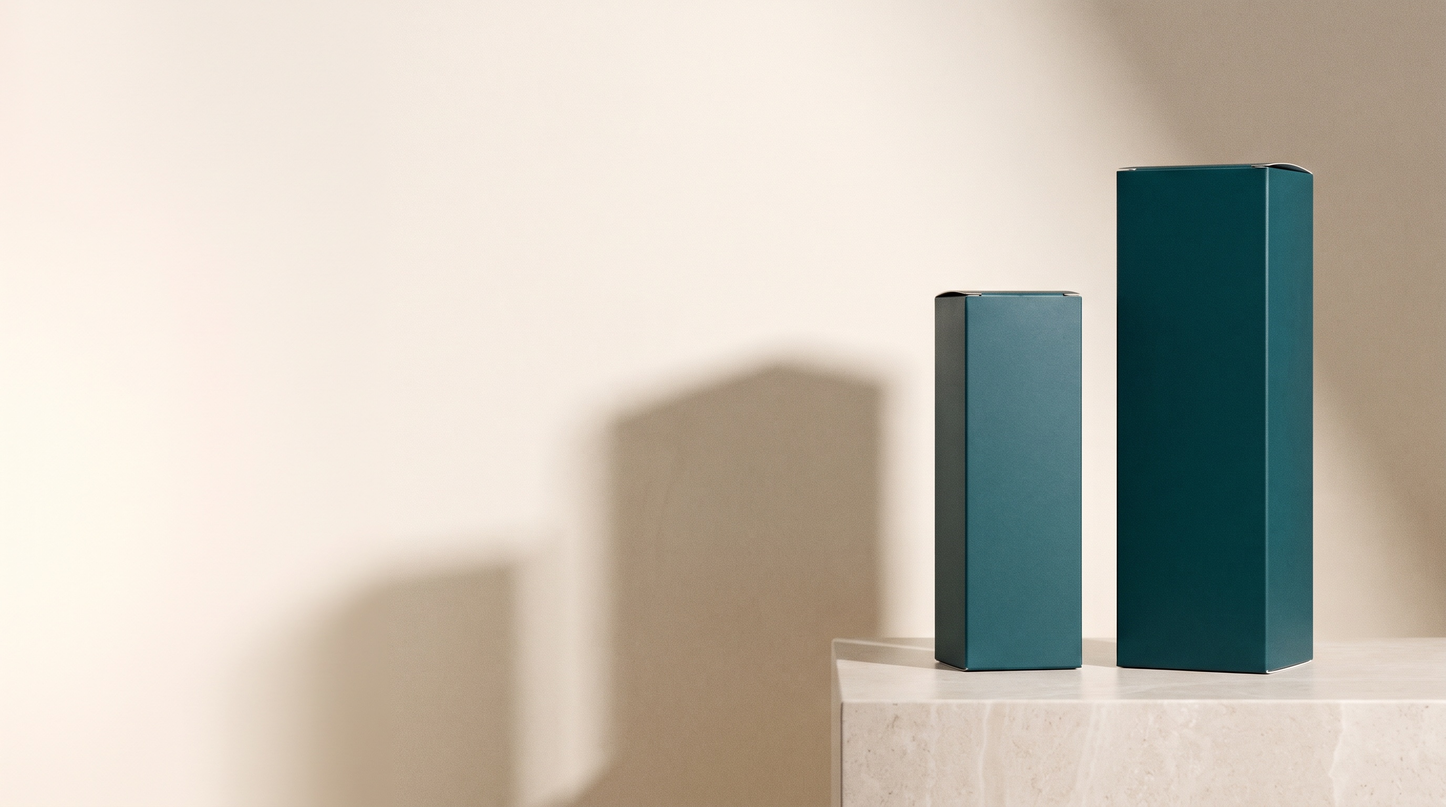
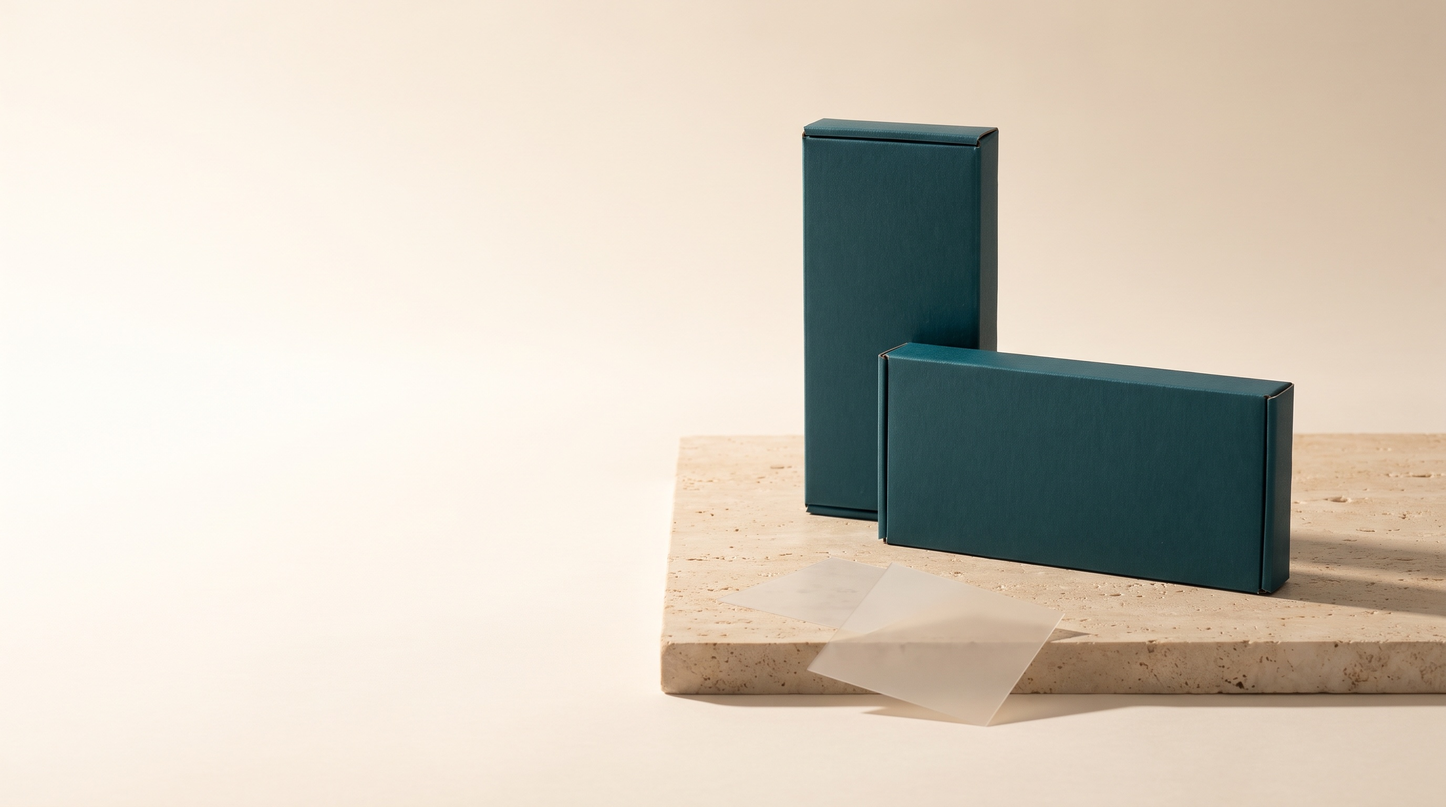
Night hero, and reverse the page out over it

diff --git a/components/sections/Hero.tsx b/components/sections/Hero.tsx
@@ -3,7 +3,7 @@ import { ArtSlot } from "@/components/ArtSlot";
 import { PRODUCT } from "@/lib/brand";
 
 /**
- * 01 — Hero, on the reference site's model: a high-key photograph with the
+ * 01 — Hero, on the reference site’s model: a high-key shot with the
  * product right of centre, and the copy set in dark type over the bright,
  * empty left third. One filled pill plus one underlined text link.
  *
@@ -15,7 +15,7 @@ export function Hero() {
     // Pulled up under the sticky header (5rem tall) so the capsules float
     // on the photograph. The announcement bar above stays in flow.
     <section
-      className="relative isolate -mt-20 overflow-hidden rounded-b-[2rem] text-brand-deep"
+      className="relative isolate -mt-20 overflow-hidden rounded-b-[2rem] text-bone"
       aria-labelledby="hero-heading"
     >
       {/* The photograph. ArtSlot positions itself, so it is wrapped rather
@@ -25,14 +25,17 @@ export function Hero() {
           variant="still"
           brief="the strips on a bedside table, low evening light"
           showCaption={false}
+          sizes="100vw"
           className="h-full w-full"
         />
       </div>
 
-      {/* Scrim — light, not dark, so dark type reads over a high-key image */}
+      {/* Scrim — dark, so pale type reads over the lamplit bedroom. The
+          left of the photograph is soft bed linen catching lamp spill, which
+          is bright enough to swallow cream type without this. */}
       <div
         aria-hidden="true"
-        className="absolute inset-0 -z-10 bg-gradient-to-r from-bone via-bone/70 to-transparent lg:via-bone/45"
+        className="absolute inset-0 -z-10 bg-gradient-to-r from-ink/90 via-ink/65 to-transparent lg:via-ink/40"
       />
 
       <div className="mx-auto flex min-h-svh max-w-[1600px] flex-col justify-center px-6 pb-28 pt-[calc(5rem+4rem)] lg:px-10">
@@ -46,14 +49,14 @@ export function Hero() {
             around how you absorb.
           </h1>
 
-          <p className="prose-quiet mt-7 max-w-md text-ink-soft">
+          <p className="prose-quiet mt-7 max-w-md text-bone/75">
             {PRODUCT.subtitle} One strip, thirty minutes before bed.
           </p>
 
           <div className="mt-11 flex flex-wrap items-center gap-x-9 gap-y-4">
             <Link
               href="/shop"
-              className="inline-flex items-center rounded-full bg-brand-deep px-9 py-4 text-[0.9375rem] text-bone transition-colors duration-500 [transition-timing-function:var(--ease-quiet)] hover:bg-ink"
+              className="inline-flex items-center rounded-full bg-bone px-9 py-4 text-[0.9375rem] text-brand-deep transition-colors duration-500 [transition-timing-function:var(--ease-quiet)] hover:bg-white"
             >
               Shop the strip
             </Link>

diff --git a/components/Header.tsx b/components/Header.tsx
@@ -43,8 +43,10 @@ export function Header() {
   const group = [
     "flex items-center gap-3 transition-all duration-700 sm:gap-5",
     "[transition-timing-function:var(--ease-quiet)]",
+    // Smoked rather than frosted: the hero photograph is a dark bedroom, so
+    // a pale capsule would punch a hole in it.
     floating
-      ? "sm:rounded-full sm:bg-bone/55 sm:px-5 sm:py-2 sm:backdrop-blur-xl"
+      ? "sm:rounded-full sm:bg-ink/25 sm:px-5 sm:py-2 sm:backdrop-blur-xl"
       : "",
   ].join(" ");
 
@@ -57,10 +59,10 @@ export function Header() {
         className={[
           "transition-[background-color,border-color,color] duration-700",
           "[transition-timing-function:var(--ease-quiet)]",
-          // The hero photograph is high-key, so the header sits transparent
-          // over it in dark type rather than reversing out of a colour band.
+          // Over the hero the header reverses out in cream; once scrolled it
+          // lands on bone and goes back to ink.
           floating
-            ? "border-b border-transparent bg-transparent text-brand-deep"
+            ? "border-b border-transparent bg-transparent text-bone"
             : "border-b border-hairline bg-bone/85 text-ink backdrop-blur-md",
         ].join(" ")}
       >
@@ -109,7 +111,13 @@ export function Header() {
             </Link>
             <Link
               href="/shop"
-              className="micro whitespace-nowrap rounded-full bg-brand-deep px-4 py-2.5 text-bone transition-colors duration-500 [transition-timing-function:var(--ease-quiet)] hover:bg-ink sm:-mr-1.5 sm:px-5 sm:py-3"
+              className={[
+                "micro whitespace-nowrap rounded-full px-4 py-2.5 sm:-mr-1.5 sm:px-5 sm:py-3",
+                "transition-colors duration-500 [transition-timing-function:var(--ease-quiet)]",
+                floating
+                  ? "bg-bone text-brand-deep hover:bg-white"
+                  : "bg-brand-deep text-bone hover:bg-ink",
+              ].join(" ")}
             >
               Shop now
             </Link>

diff --git a/lib/photos.ts b/lib/photos.ts
@@ -35,11 +35,17 @@ export type Photo = {
 export const PHOTOS: Record<string, Photo | null> = {
   // ---- Hero ------------------------------------------------------------
   "the strips on a bedside table, low evening light": {
-    // Higgsfield, 2752×1536. The alternative lifestyle take is
-    // hero-bedroom.jpg — swap the src to use it.
-    src: "/photos/hero-plinth.jpg",
-    alt: "Two NODA boxes on a stone plinth in soft raking light",
-    position: "center center",
+    // Night, on purpose: the strip is taken half an hour before bed, and a
+    // bright daylight hero was arguing against the product. One warm lamp
+    // against cool dusk in the window, with the strip backlit so it glows —
+    // the format is the whole argument, so it has to be the brightest thing
+    // in the frame. hero-plinth.jpg is the daylight alternative.
+    src: "/photos/hero-night.jpg",
+    alt: "A NODA carton on a bedside table at night, a frosted strip glowing beside it",
+    // Biased right, toward the product. On a wide screen the slot matches
+    // the frame's aspect so this does nothing; on a phone the sides are
+    // cropped hard, and centring would leave only an empty table on screen.
+    position: "68% center",
   },
 
   // ---- Product ---------------------------------------------------------

diff --git a/app/page.tsx b/app/page.tsx
@@ -11,8 +11,14 @@ import { Testimonials } from "@/components/sections/Testimonials";
  * The main page.
  *
  *   01 Photo hero with overlaid copy and two CTAs
- *   02 Full-bleed annotated product card
- *   03 Science in a strip — the formula, with tags and mechanisms
+ *   02 Science in a strip — the formula, with tags and mechanisms
+ *   03 Full-bleed annotated product card
+ *
+ * Science sits between the hero and the format card deliberately. Both of
+ * those are full-bleed photographs carrying a large statement, and back to
+ * back they flattened each other — the second read as a second hero. A light
+ * typographic band between them restores the rhythm, and it is the better
+ * order anyway: what is in it, then how it works.
  *   04 How it compares — the chart
  *   05 Science teaser with illustration
  *   06 Member story carousel
@@ -28,8 +34,8 @@ export default function HomePage() {
   return (
     <>
       <Hero />
-      <Format />
       <ScienceStrip />
+      <Format />
       <Compare />
       <ScienceTeaser />
       <Testimonials />

diff --git a/components/ArtSlot.tsx b/components/ArtSlot.tsx
@@ -53,6 +53,7 @@ export function ArtSlot({
   onDark = true,
   showCaption = true,
   showMark = true,
+  sizes = "(max-width: 640px) 100vw, (max-width: 1024px) 50vw, 800px",
 }: {
   variant?: Variant;
   tint?: string;
@@ -64,6 +65,12 @@ export function ArtSlot({
   /** Hide the caption where it would sit under overlaid copy */
   showCaption?: boolean;
   showMark?: boolean;
+  /**
+   * What width this slot actually occupies. The default suits the card
+   * grids; full-bleed slots must say so or the browser is told the image
+   * is 800px wide and picks a candidate far too small for it.
+   */
+  sizes?: string;
 }) {
   const photo = getPhoto(brief);
 
@@ -79,7 +86,7 @@ export function ArtSlot({
           src={photo.src}
           alt={photo.alt}
           fill
-          sizes="(max-width: 640px) 100vw, (max-width: 1024px) 50vw, 800px"
+          sizes={sizes}
           className="object-cover"
           style={{ objectPosition: photo.position ?? "center" }}
         />

diff --git a/docs/PRODUCT-PROMPT.md b/docs/PRODUCT-PROMPT.md
@@ -1,0 +1,94 @@
+# The canonical product description
+
+Every generated image must describe the product with **these exact words**.
+Paste them verbatim into the prompt — do not paraphrase, and do not invent new
+proportions, finishes or closures.
+
+Why this file exists: earlier shots were each prompted freehand, so every
+generation invented its own packaging. The site ended up with a tall
+rectangular box in the hero, a small flat carton in the shop gallery and a
+third shape in the comparison tiles. Nobody notices on one screen; they sit
+side by side on the product page.
+
+## The box
+
+> a slim flat matte carton in deep teal, about the size of a pack of playing
+> cards, uncoated matte board, softly rounded corners, completely blank with
+> no printing of any kind
+
+## The strip
+
+> an ultra-thin translucent film square about 2cm by 3cm, frosted and matte
+> like fine rice paper, softly opaque
+
+**Never say "iridescent", "opalescent" or "prismatic".** Those words produce a
+thick holographic card that reads as a novelty item, not a dissolvable film.
+An early hero was rejected for exactly this. Append "absolutely no rainbow and
+no holographic effect" when the strip is the subject.
+
+## Always append
+
+> No text, no lettering, no logos, no labels, no packaging typography, no
+> hands, no people.
+
+`no text` matters: given a front-facing box face the model invents brand
+typography, and it once produced a mangled competitor name on the carton.
+`no hands` matters because hands come back malformed — see the note at the top
+of `lib/photos.ts`.
+
+Also ask for **sharp focus** explicitly when the product is the subject. Left
+to itself the model throws the packaging out of focus and the shot ends up
+with no subject at all.
+
+## Where this is applied
+
+- `scripts/generate-photos.mjs` — the `BOX` and `STRIP` constants
+- Higgsfield prompts — paste from here each time; there is no shared constant
+  because those calls are made ad hoc rather than from a script
+
+## What this cannot fix
+
+Images generated before this file existed still disagree with each other.
+They are placeholders and will be replaced by a real shoot; this only stops
+the drift getting worse.
+
+---
+
+## The hero
+
+`public/photos/hero-night.jpg` — ChatGPT, iterated. What finally worked, in
+order, because each step fixed a specific failure:
+
+1. **A real room, never a void.** Seamless-background macros of the strip
+   read as frosted glass or soap. The reference site never floats anything —
+   there is always a table, a window, a room behind it.
+2. **A known object for scale.** Telling the model "8cm tall" does nothing;
+   it has no ruler. Putting a ceramic mug in frame forced the cartons down
+   from hardback-book size to something you would put in a pocket.
+3. **Construction detail.** "Visible fold line, tuck-flap seam, uncoated
+   matte board" is what stops a carton reading as a solid painted block.
+4. **The room has to wrap.** A flat empty wall on one side reads as a set.
+   Bed, headboard, curtain, window, all softly out of focus, reads as a home.
+5. **Move the camera, don't scale the product.** When the group was too small
+   in frame, enlarging the boxes broke the scale illusion; moving the camera
+   closer kept it.
+6. **Night.** The obvious one, missed for several rounds: the strip is taken
+   half an hour before bed. Bright daylight was arguing against the product.
+   One warm lamp against cool blue dusk in the window — the warm/cool pair is
+   what stops a night interior going muddy brown.
+
+Watch for: "a faint ring mark" comes back as a raised glassy ring sitting on
+the table rather than a stain in it, and surface texture requests come back
+as embossed damask. Both had to be explicitly removed.
+
+## Video — cut, deliberately
+
+A 5s Seedance push-in was generated, encoded and shipped, then pulled. It was
+technically fine and creatively empty: a slow zoom on a static object is not
+motion design, and five seconds gives the eye time to study surfaces that an
+invented carton does not have. Motion raises the resolution bar; the asset
+could not take it.
+
+If motion returns, the idea worth doing is **the strip dissolving** — macro,
+locked off, backlit, the film going glassy and vanishing. It is the product's
+one genuinely cinematic property and no competitor format has it.
